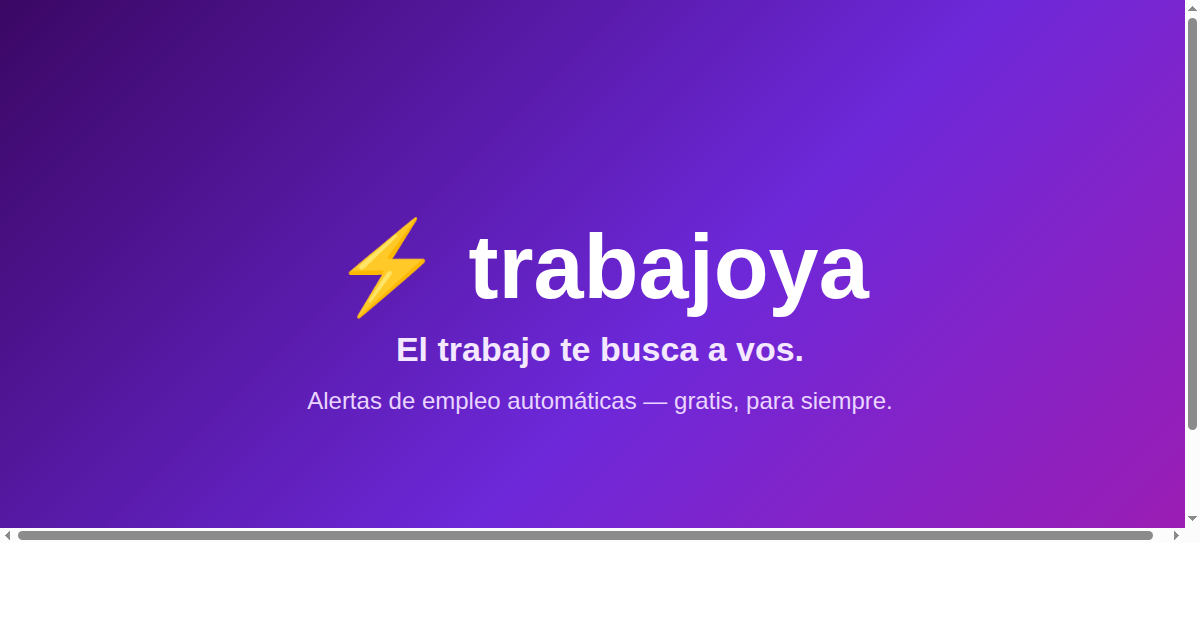
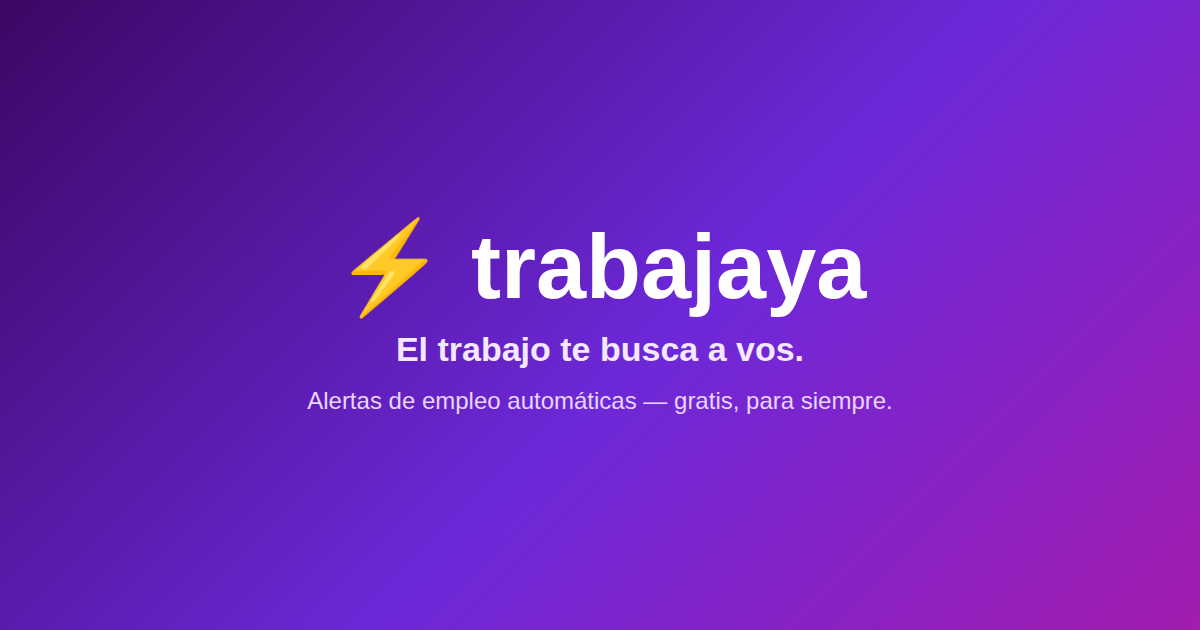
Rebranding: trabajoya -> trabajaya (trabajoya ya está registrada por otro titular en INPI)

diff --git a/index.html b/index.html
@@ -11,19 +11,19 @@
   gtag('js', new Date());
   gtag('config', 'G-HRNVC17WMF');
 </script>
-<title>trabajoya — Alertas de empleo gratis, para siempre</title>
+<title>trabajaya — Alertas de empleo gratis, para siempre</title>
 <meta name="description" content="Anotate una vez y recibí por mail las ofertas de empleo que matchean con tu perfil, cada 2 horas. Gratis para siempre — remoto y presencial, cualquier rubro y nivel.">
 <link rel="canonical" href="https://kxl100rx.github.io/trabajoya/">
 <meta property="og:type" content="website">
-<meta property="og:title" content="trabajoya — El trabajo te busca a vos">
+<meta property="og:title" content="trabajaya — El trabajo te busca a vos">
 <meta property="og:description" content="Alertas de empleo automáticas, gratis para siempre. Anotate una vez y recibí por mail las ofertas que matchean con tu perfil.">
 <meta property="og:url" content="https://kxl100rx.github.io/trabajoya/">
 <meta property="og:image" content="https://kxl100rx.github.io/trabajoya/og-image.png">
 <meta name="twitter:card" content="summary_large_image">
-<meta name="twitter:title" content="trabajoya — El trabajo te busca a vos">
+<meta name="twitter:title" content="trabajaya — El trabajo te busca a vos">
 <meta name="twitter:description" content="Alertas de empleo automáticas, gratis para siempre.">
 <script type="application/ld+json">
-{"@context":"https://schema.org","@type":"WebApplication","name":"trabajoya","url":"https://kxl100rx.github.io/trabajoya/","applicationCategory":"BusinessApplication","offers":{"@type":"Offer","price":"0","priceCurrency":"USD"},"description":"Alertas de empleo automáticas por mail, gratis para siempre, con un asistente de IA opcional para acompañar cada postulación."}
+{"@context":"https://schema.org","@type":"WebApplication","name":"trabajaya","url":"https://kxl100rx.github.io/trabajoya/","applicationCategory":"BusinessApplication","offers":{"@type":"Offer","price":"0","priceCurrency":"USD"},"description":"Alertas de empleo automáticas por mail, gratis para siempre, con un asistente de IA opcional para acompañar cada postulación."}
 </script>
 <script src="https://cdn.jsdelivr.net/npm/@supabase/supabase-js@2"></script>
 <script src="https://cdn.jsdelivr.net/npm/pdfjs-dist@3.11.174/build/pdf.min.js"></script>
@@ -314,7 +314,7 @@
 <body>
 <script>
 (function(){
-  var saved = localStorage.getItem("trabajoya-theme");
+  var saved = localStorage.getItem("trabajaya-theme");
   var wantsDark = saved === "dark" || (!saved && window.matchMedia && window.matchMedia("(prefers-color-scheme: dark)").matches);
   if (wantsDark) document.body.classList.add("dark-mode");
 })();
@@ -454,7 +454,7 @@
 
     <label id="consentRow" style="display:none;align-items:flex-start;gap:8px;font-size:12.5px;color:#8a86a8;margin:12px 0 4px;cursor:pointer">
       <input type="checkbox" id="consent" style="margin-top:3px" required>
-      <span data-i18n="consent_text">Acepto que trabajoya guarde mi email y mi CV para buscarme ofertas de empleo, según la
+      <span data-i18n="consent_text">Acepto que trabajaya guarde mi email y mi CV para buscarme ofertas de empleo, según la
         <a href="privacidad.html" target="_blank" style="color:inherit;text-decoration:underline">Política de Privacidad</a>.</span>
     </label>
     <button type="submit" id="btn" style="display:none" data-i18n="submit_btn">Activar mis alertas gratis</button>
@@ -524,7 +524,7 @@ const I18N = {
     step8_label: "Tips for your profile",
     step8_hint: "(based on your industry and level)",
     tips_empty: "Choose at least one industry above to see role and certification suggestions.",
-    consent_text: 'I agree that trabajoya stores my email and CV to search for job offers for me, per the <a href="privacidad.html" target="_blank" style="color:inherit;text-decoration:underline">Privacy Policy</a>.',
+    consent_text: 'I agree that trabajaya stores my email and CV to search for job offers for me, per the <a href="privacidad.html" target="_blank" style="color:inherit;text-decoration:underline">Privacy Policy</a>.',
     submit_btn: "Activate my free alerts",
     footer_note: "Your data is only used to search for jobs for you. No one else can see your profile.",
     footer_privacy: "Privacy & Terms",
@@ -551,14 +551,14 @@ function applyLanguage(lang) {
   const sel = document.getElementById("langSwitch");
   let lang = "es";
   try {
-    lang = localStorage.getItem("trabajoya_lang") ||
+    lang = localStorage.getItem("trabajaya_lang") ||
       (navigator.language && navigator.language.toLowerCase().startsWith("en") ? "en" : "es");
   } catch (e) { /* localStorage puede fallar en algunos navegadores/privacidad estricta */ }
   if (sel) sel.value = lang;
   applyLanguage(lang);
   if (sel) sel.addEventListener("change", () => {
     applyLanguage(sel.value);
-    try { localStorage.setItem("trabajoya_lang", sel.value); } catch (e) {}
+    try { localStorage.setItem("trabajaya_lang", sel.value); } catch (e) {}
   });
 })();
 
@@ -984,7 +984,7 @@ function renderKit(areas, seniority, skills, country) {
         <a href="https://www.libreoffice.org/download/download/" target="_blank" rel="noopener" style="color:#2563eb;font-weight:700">LibreOffice Calc</a>
         (gratis, sin cuenta) o con una cuenta gratuita de Google Sheets. Si preferís no instalar nada, usá el botón de arriba.</p>
       <div class="premium-banner">
-        <div class="premium-banner-title">⚡ trabajoya Premium</div>
+        <div class="premium-banner-title">⚡ trabajaya Premium</div>
         <p class="premium-banner-sub">Todo lo de arriba sigue 100% gratis para siempre. Premium es un extra opcional:
           un asistente de IA que te acompaña postulación por postulación, mientras seguís buscando.</p>
         <div class="premium-compare">
@@ -1479,7 +1479,7 @@ function updateThemeIcon() {
 updateThemeIcon();
 themeToggle.addEventListener("click", () => {
   document.body.classList.toggle("dark-mode");
-  localStorage.setItem("trabajoya-theme", document.body.classList.contains("dark-mode") ? "dark" : "light");
+  localStorage.setItem("trabajaya-theme", document.body.classList.contains("dark-mode") ? "dark" : "light");
   updateThemeIcon();
 });
 </script>

diff --git a/privacidad.html b/privacidad.html
@@ -3,8 +3,8 @@
 <head>
 <meta charset="UTF-8">
 <meta name="viewport" content="width=device-width, initial-scale=1.0">
-<title>trabajoya — Privacidad y Términos</title>
-<meta name="description" content="Política de privacidad y términos de uso de trabajoya.">
+<title>trabajaya — Privacidad y Términos</title>
+<meta name="description" content="Política de privacidad y términos de uso de trabajaya.">
 <link rel="canonical" href="https://kxl100rx.github.io/trabajoya/privacidad.html">
 <style>
   * { box-sizing: border-box; }
@@ -26,12 +26,12 @@
 </head>
 <body>
 <div class="wrap">
-  <a class="back" href="index.html">← Volver a trabajoya</a>
+  <a class="back" href="index.html">← Volver a trabajaya</a>
   <h1>Privacidad y Términos de Uso</h1>
   <p><i>Última actualización: agosto de 2026.</i></p>
 
   <div class="note">Este documento es un punto de partida claro y de buena fe, pensado para un producto en etapa
-  temprana. A medida que trabajoya sume más usuarios, países o líneas de negocio (por ejemplo un marketplace de
+  temprana. A medida que trabajaya sume más usuarios, países o líneas de negocio (por ejemplo un marketplace de
   coaches), conviene que un abogado especializado en protección de datos lo revise y adapte a cada jurisdicción.</div>
 
   <h2>Qué datos recolectamos</h2>
@@ -54,18 +54,18 @@
     CV y tus postulaciones.</li>
     <li><b>Mercado Pago / Lemon Squeezy</b> — procesamiento de pagos de la suscripción Premium.</li>
   </ul>
-  <p>Ninguno de estos proveedores puede usar tus datos para otro fin que no sea operar trabajoya.</p>
+  <p>Ninguno de estos proveedores puede usar tus datos para otro fin que no sea operar trabajaya.</p>
 
   <h2>Tus derechos</h2>
   <p>Podés pedirnos en cualquier momento que te mostremos, corrijamos o eliminemos todos tus datos, o que dejes de
   recibir mails. Escribinos a <a href="mailto:galeanofacal@gmail.com">galeanofacal@gmail.com</a> y lo resolvemos.</p>
 
   <h2>Cookies y analítica</h2>
-  <p>Hoy trabajoya no usa cookies de seguimiento ni herramientas de analítica de terceros. Si en el futuro
+  <p>Hoy trabajaya no usa cookies de seguimiento ni herramientas de analítica de terceros. Si en el futuro
   sumamos analítica (por ejemplo para entender qué funciona), lo vamos a reflejar acá antes de activarla.</p>
 
   <h2>Menores de edad</h2>
-  <p>trabajoya está pensado para personas en edad de trabajar según la legislación de su país. No recolectamos
+  <p>trabajaya está pensado para personas en edad de trabajar según la legislación de su país. No recolectamos
   intencionalmente datos de menores fuera de ese marco.</p>
 
   <h2>Cambios a esta política</h2>

diff --git a/premium.html b/premium.html
@@ -3,11 +3,11 @@
 <head>
 <meta charset="UTF-8">
 <meta name="viewport" content="width=device-width, initial-scale=1.0">
-<title>trabajoya Premium — automatizá tu búsqueda</title>
+<title>trabajaya Premium — automatizá tu búsqueda</title>
 <meta name="description" content="Lo gratis sigue gratis para siempre. Premium suma un asistente de IA que te acompaña postulación por postulación: match de CV, carta de presentación, entrevista y más.">
 <link rel="canonical" href="https://kxl100rx.github.io/trabajoya/premium.html">
 <meta property="og:type" content="website">
-<meta property="og:title" content="trabajoya Premium">
+<meta property="og:title" content="trabajaya Premium">
 <meta property="og:description" content="Un asistente de IA que te acompaña postulación por postulación, mientras seguís buscando gratis.">
 <meta property="og:url" content="https://kxl100rx.github.io/trabajoya/premium.html">
 <meta property="og:image" content="https://kxl100rx.github.io/trabajoya/og-image.png">
@@ -124,7 +124,7 @@
 <body>
 <script>
 (function(){
-  var saved = localStorage.getItem("trabajoya-theme");
+  var saved = localStorage.getItem("trabajaya-theme");
   var wantsDark = saved === "dark" || (!saved && window.matchMedia && window.matchMedia("(prefers-color-scheme: dark)").matches);
   if (wantsDark) document.body.classList.add("dark-mode");
 })();
@@ -133,7 +133,7 @@
 <div class="wrap">
   <div class="card">
     <a class="backlink" href="index.html">← Volver a las alertas</a>
-    <h1>⚡ trabajoya Premium</h1>
+    <h1>⚡ trabajaya Premium</h1>
     <p class="sub">Las alertas y el kit de búsqueda siguen siendo 100% gratis, para siempre — eso no cambia nunca.
       Premium es un extra opcional: un asistente de IA que te acompaña <b>postulación por postulación</b>, mientras
       seguís buscando activamente. Cada oferta nueva que encontrás, la IA te dice qué tan bien matcheás, te escribe
@@ -349,7 +349,7 @@ function updateThemeIcon() {
 updateThemeIcon();
 themeToggle.addEventListener("click", () => {
   document.body.classList.toggle("dark-mode");
-  localStorage.setItem("trabajoya-theme", document.body.classList.contains("dark-mode") ? "dark" : "light");
+  localStorage.setItem("trabajaya-theme", document.body.classList.contains("dark-mode") ? "dark" : "light");
   updateThemeIcon();
 });
 

diff --git a/og-image-src.html b/og-image-src.html
@@ -1,0 +1,17 @@
+<!DOCTYPE html>
+<html><head><meta charset="UTF-8">
+<style>
+  body { margin:0; width:1200px; height:630px; display:flex; align-items:center; justify-content:center;
+    background: linear-gradient(135deg,#3b0764,#6d28d9 55%,#a21caf); font-family: -apple-system, "Segoe UI", Roboto, Arial, sans-serif; }
+  .wrap { text-align:center; color:#fff; }
+  .logo { font-size: 90px; font-weight: 800; margin-bottom: 10px; }
+  .tag { font-size: 34px; font-weight: 600; color:#f3e8ff; }
+  .sub { font-size: 24px; color:#e9d5ff; margin-top: 18px; }
+</style></head>
+<body>
+  <div class="wrap">
+    <div class="logo">⚡ trabajaya</div>
+    <div class="tag">El trabajo te busca a vos.</div>
+    <div class="sub">Alertas de empleo automáticas — gratis, para siempre.</div>
+  </div>
+</body></html>

diff --git a/seguimiento.html b/seguimiento.html
@@ -83,7 +83,7 @@
 <body>
 <script>
 (function(){
-  var saved = localStorage.getItem("trabajoya-theme");
+  var saved = localStorage.getItem("trabajaya-theme");
   var wantsDark = saved === "dark" || (!saved && window.matchMedia && window.matchMedia("(prefers-color-scheme: dark)").matches);
   if (wantsDark) document.body.classList.add("dark-mode");
 })();
@@ -228,7 +228,7 @@ function updateThemeIcon() {
 updateThemeIcon();
 themeToggle.addEventListener("click", () => {
   document.body.classList.toggle("dark-mode");
-  localStorage.setItem("trabajoya-theme", document.body.classList.contains("dark-mode") ? "dark" : "light");
+  localStorage.setItem("trabajaya-theme", document.body.classList.contains("dark-mode") ? "dark" : "light");
   updateThemeIcon();
 });
 </script>
